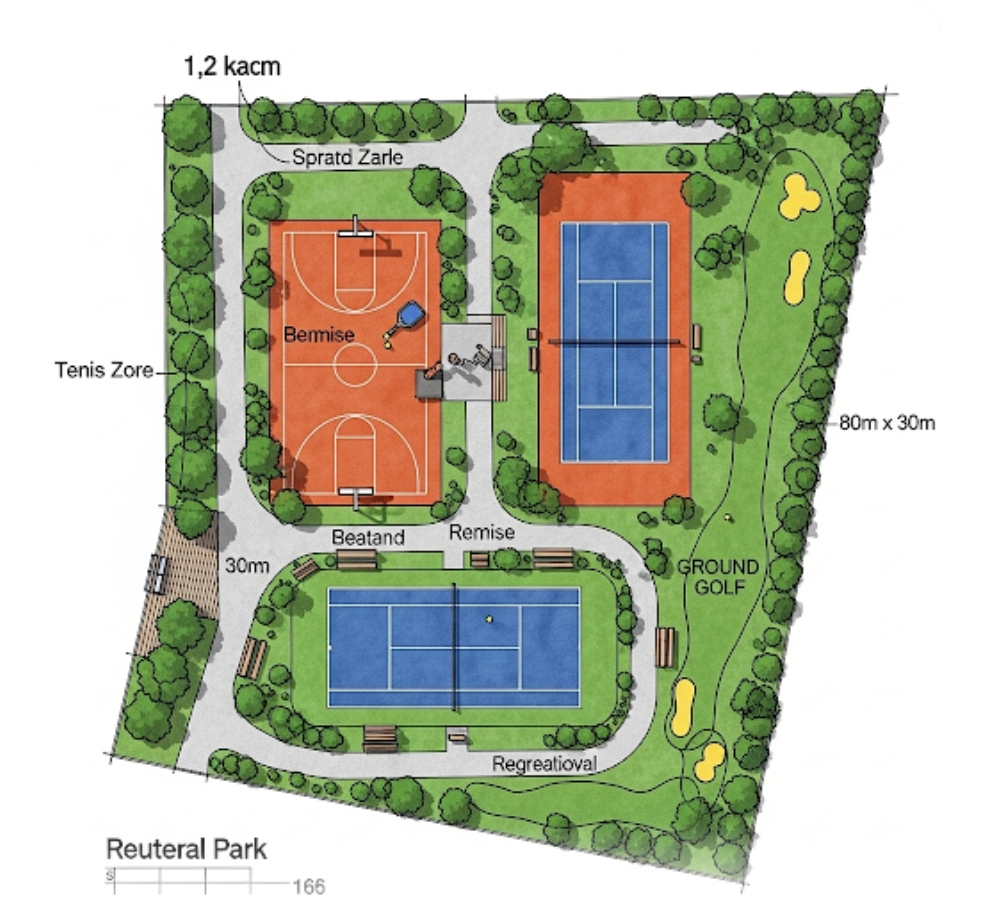
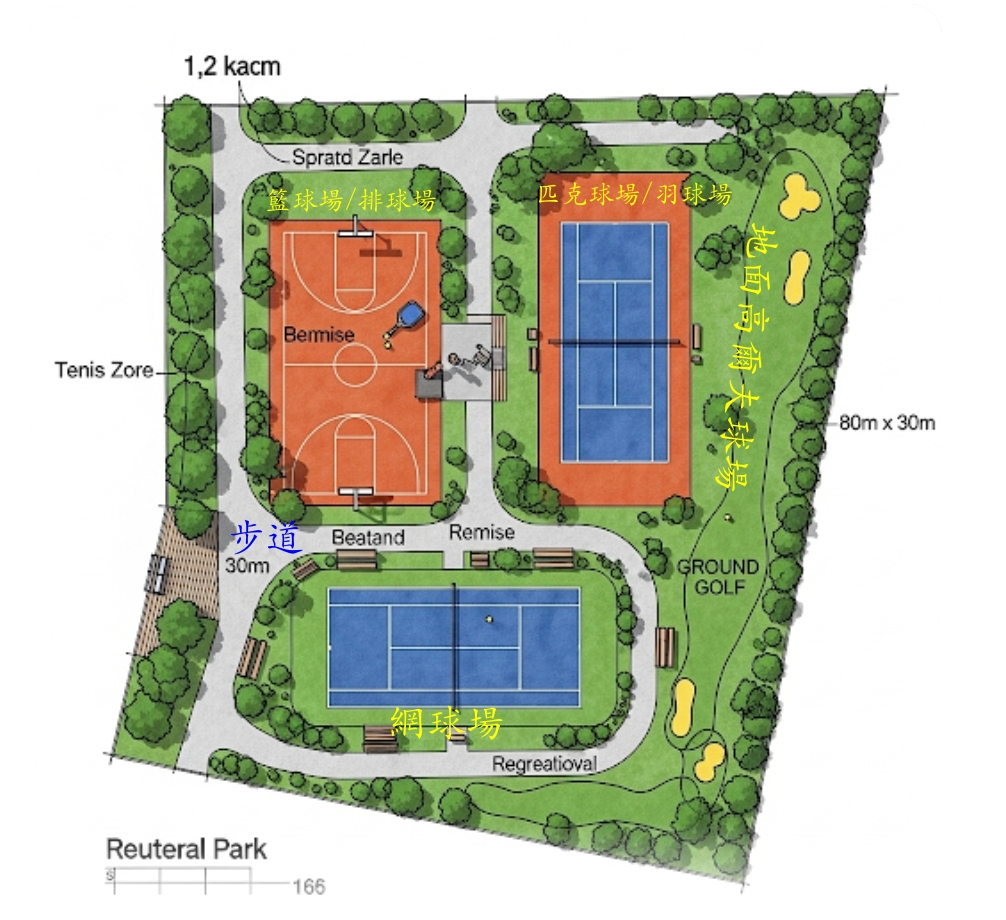
r036

diff --git a/content/resident/r036.md b/content/resident/r036.md
@@ -41,9 +41,11 @@ toc: true
 
 - 散步/慢跑步道
 - 地面高爾夫球場 （範例一）
-- 籃球場
+- 籃球場 / 排球場 共用場地
 - 網球場
-- 匹克球 (範例二) / 羽毛球 共用場地
+- 匹克球場 (範例二) / 羽毛球場 共用場地
+- 上面球場都能當 太極拳及廣場舞 活動使用
+- 希望能有車輛下去的車道及球場間車道通行規劃，假日/夜間能舉辦餐車夜市。
 
 ![r036-06.jpg](/images/resident/r036-06.jpg)
 
@@ -94,7 +96,7 @@ NT$ 750,000 (籃球場) \+ NT$ 900,000 (網球場) \+ NT$ 800,000 (匹克球場)
 
 建議在實際執行前，請專業廠商進行詳細場勘與報價，以獲得最精確的預算。
 
-#### 範例一: 地面高爾夫 運動
+#### **範例一: 地面高爾夫 運動**
 
 ##### **什麼是地面高爾夫球（Ground Golf）？**
 
@@ -191,11 +193,9 @@ NT$ 750,000 (籃球場) \+ NT$ 900,000 (網球場) \+ NT$ 800,000 (匹克球場)
 
 參考資料：
 
-- Today 看世界: <a href="https://www.youtube.com/watch?v=KzLugI1bwOw">匹克球介紹</a>
-- <a href="https://www.youtube.com/watch?v=z5quU4GqTD0">匹克球規則</a>
-- <a href="https://pickleball.org.tw/instroduction/">中華民國匹克球協會</a>
-- <a href=""></a>
-- <a href="https://shopee.tw/list/%E5%8C%B9%E5%85%8B%E7%90%83">蝦皮購物：匹克球具</a>
+- **官方協會**：<a href="https://pickleball.org.tw/instroduction/">中華民國匹克球協會</a>, <a href="https://www.facebook.com/people/%E6%A1%83%E5%9C%92%E5%B8%82%E5%85%A8%E6%B0%91%E5%8C%B9%E5%85%8B%E7%90%83%E7%99%BC%E5%B1%95%E5%8D%94%E6%9C%83/61562820478668/?_rdr">桃園市全民匹克球發展協會</a>
+- **推廣教學**： <a href="https://www.youtube.com/watch?v=KzLugI1bwOw">匹克球介紹</a>, <a href="https://www.youtube.com/watch?v=z5quU4GqTD0">匹克球規則</a>, <a href="https://www.youtube.com/watch?v=-bAFliNa4_Q">匹克球基本擊球技巧</a>
+- **球具採購**： <a href="https://shopee.tw/list/%E5%8C%B9%E5%85%8B%E7%90%83">蝦皮購物：匹克球具</a>, <a href="https://www.jellysportshop.com/collections/pickleball-products">捷利體育</a>
 
 ![r036-07.jpg](/images/resident/r036-07.jpg)
 
